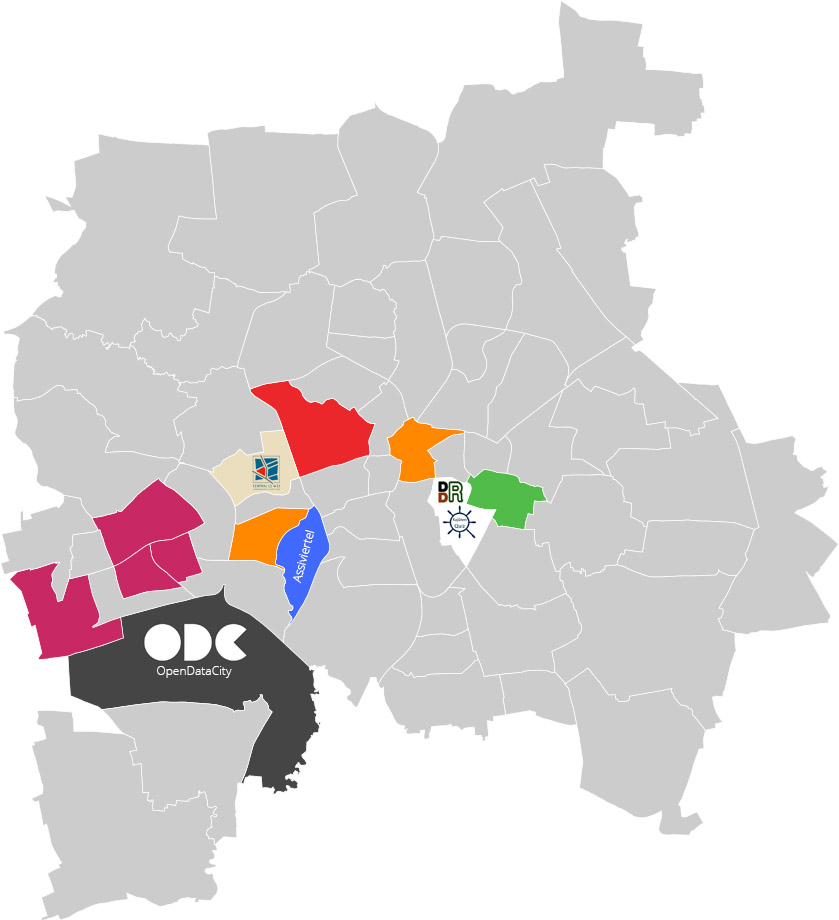
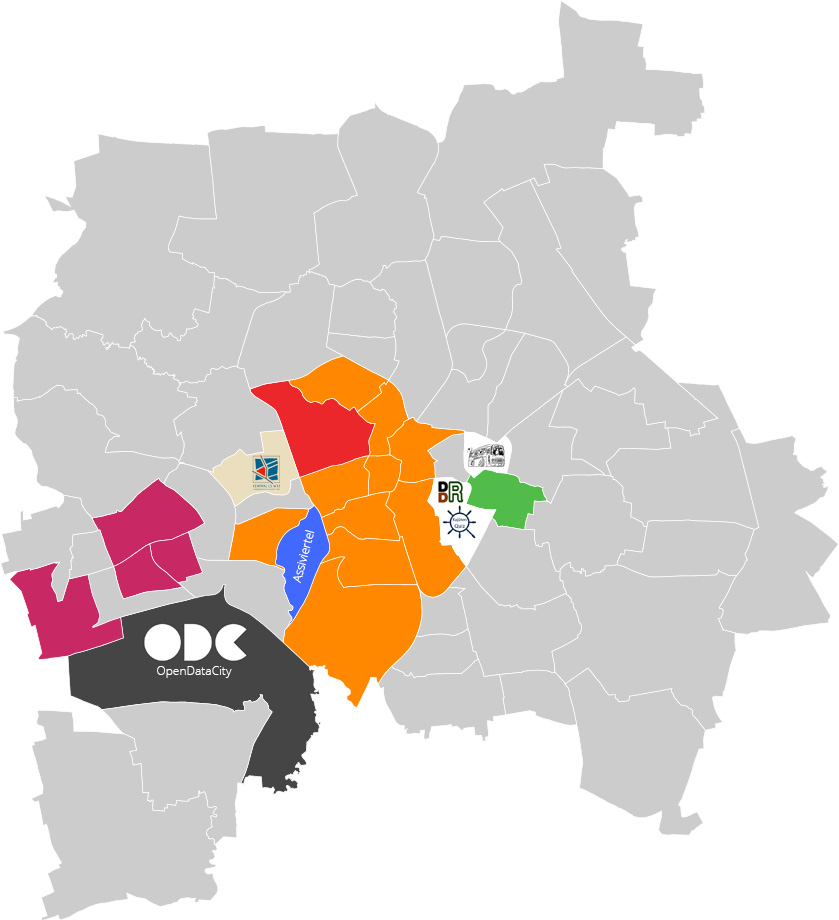
Neuer Unterstützer: Helden wider Willen e.V.

Changed region(s): [[0.3409, 0.3652, 0.5578, 0.7609], [0.5578, 0.4565, 0.6198, 0.5174]]

diff --git a/_pages/dank/index.html b/_pages/dank/index.html
@@ -85,6 +85,12 @@ title: Danksagung
 			<li>
 				Anger-Crottendorf: <a href="http://www.gruene-leipzig.de/stadtratswahl-2014/kandidatinnen/wahlkreis-2/" target="_blank">Stephan Stach (Grüne)</a>
 			</li>
+			<li>
+				Zentrum, Zentrum-Südost, Zentrum-Süd, Zentrum-West, Zentrum-Nord, Südvorstadt, Connewitz, Gohlis-Süd: <a href="http://piraten-leipzig.de/srle/lily/" target="_blank">Ute Elisabeth Gabelmann (PIRATEN)</a>
+			</li>
+			<li>
+				Volkmarksdorf: <a href="http://baumit.weebly.com" target="_blank">Helden wider Willen e.V.</a>
+			</li>
 		</ul>
 		
 		<img src="{% asset_path img/karte.jpg %}" class="img-responsive" style="width: 75%; margin: 0 auto; padding-top: 35px;">

diff --git a/_posts/2014-10-27-kritik-am-ausverkauf.md b/_posts/2014-10-27-kritik-am-ausverkauf.md
@@ -27,3 +27,45 @@ Am Ende hat uns Frau Jennicke noch einen Tipp gegeben, wie wir finanzielle Unter
 *„Sind Sie als Verein organisiert, können Sie Fördermittel beantragen. Sich um Spenden zu bemühen, ist eine weitere Möglichkeit. Meine Fraktion würde Ihre Arbeit gern mit einer Spende aus den Aufwandsentschädigungen der Stadträte unterstützen. Und: Fragen Sie doch mal bei den großen Investoren! Wenn sie reflektieren, woher ihr Reichtum stammt, wären sie möglicherweise bereit, davon etwas zurückzugeben.”*
 
 Über eine Spende aus den Aufwandsentschädigungen würden wir uns sehr freuen. Aber wie gesagt, auch andere Dinge helfen uns schon weiter. Auch die kritische Diskussion um unser Projekt begrüßen wir. Außerdem fänden wir es toll, wenn noch andere Fraktionen (aus allen politischen Lagern) sich dazu entschließen, unser Projekt zu unterstützen. Wir haben bewusst vorrangig die Stadtpolitiker angesprochen – und keine Investoren – da sie die Repräsentanten der Bürger sind und politisch am meisten bewirken können, was Open Data angeht. **Einundleipzig soll eine Art städtisches „Gemeingut” werden, beruhend auf offenen Daten.**
+
+<img src="/assets/pages/dank/img/karte.jpg" style="width: 75%; display: block; margin: 0 auto;" />
+
+<ul class="bullets" style="font-size: 11pt">
+
+<li>
+Großzschocher: <a href="http://www.opendatacity.de" target="_blank">OpenDataCity</a>
+</li>
+<li>
+Zentrum-Nordwest: <a href="http://www.joergweise.de/" target="_blank">Jörg Weise (SPD)</a>
+</li>
+<li>
+Lausen-Grünau: <a href="http://www.ilse-lauter.de/" target="_blank">Ilse Lauter (DIE LINKE)</a>
+</li>
+<li>
+Reudnitz-Thonberg: <a href="http://www.dunkeldreckig.de/" target="_blank">Dunkel. Dreckig. Reudnitz.</a> und <a href="https://www.facebook.com/kajuetenquiz" target="_blank">Kajüten-Quiz</a>
+</li>
+<li>
+Grünau-Mitte, Grünau-Ost und Schönau: <a href="http://www.soeren-pellmann.de/" target="_blank">Sören Pellmann (DIE LINKE)</a>
+</li>
+<li>
+Schleußig: <a href="https://www.facebook.com/Assiviertel" target="_blank">Assiviertel</a>
+</li>
+<li>
+Plagwitz: <a href="http://piraten-leipzig.de/author/hartmut/" target="_blank">Hartmut Thomas (PIRATEN)</a>
+</li>
+<li>
+Zentrum-Ost: <a href="http://piraten-leipzig.de/author/wwilleke/" target="_blank">Werner Willeke (PIRATEN)</a>
+</li>
+<li>
+Altlindenau: <a href="http://www.central-ls-w33.de/" target="_blank">Wohnungsgesellschaft mbH Central LS W33</a>
+</li>
+<li>
+Anger-Crottendorf: <a href="http://www.gruene-leipzig.de/stadtratswahl-2014/kandidatinnen/wahlkreis-2/" target="_blank">Stephan Stach (Grüne)</a>
+</li>
+<li>
+Zentrum, Zentrum-Südost, Zentrum-Süd, Zentrum-West, Zentrum-Nord, Südvorstadt, Connewitz, Gohlis-Süd: <a href="http://piraten-leipzig.de/srle/lily/" target="_blank">Ute Elisabeth Gabelmann (PIRATEN)</a>
+</li>
+<li>
+Volkmarksdorf: <a href="http://baumit.weebly.com" target="_blank">Helden wider Willen e.V.</a>
+</li>
+</ul>

diff --git a/_posts/2014-10-19-ortsteil-freikaufen.md b/_posts/2014-10-19-ortsteil-freikaufen.md
@@ -24,4 +24,44 @@ An die Stadtpolitiker: Senden Sie uns eine Mail und teilen Sie uns mit, welchen 
 
 ### Derzeitiger Stand:
 
-<img src="{% asset_path karte.jpg %}" style="width: 75; display: block; margin: 0 auto;" />
+<img src="/assets/pages/dank/img/karte.jpg" style="width: 75%; display: block; margin: 0 auto;" />
+
+<ul class="bullets" style="font-size: 11pt">
+
+<li>
+Großzschocher: <a href="http://www.opendatacity.de" target="_blank">OpenDataCity</a>
+</li>
+<li>
+Zentrum-Nordwest: <a href="http://www.joergweise.de/" target="_blank">Jörg Weise (SPD)</a>
+</li>
+<li>
+Lausen-Grünau: <a href="http://www.ilse-lauter.de/" target="_blank">Ilse Lauter (DIE LINKE)</a>
+</li>
+<li>
+Reudnitz-Thonberg: <a href="http://www.dunkeldreckig.de/" target="_blank">Dunkel. Dreckig. Reudnitz.</a> und <a href="https://www.facebook.com/kajuetenquiz" target="_blank">Kajüten-Quiz</a>
+</li>
+<li>
+Grünau-Mitte, Grünau-Ost und Schönau: <a href="http://www.soeren-pellmann.de/" target="_blank">Sören Pellmann (DIE LINKE)</a>
+</li>
+<li>
+Schleußig: <a href="https://www.facebook.com/Assiviertel" target="_blank">Assiviertel</a>
+</li>
+<li>
+Plagwitz: <a href="http://piraten-leipzig.de/author/hartmut/" target="_blank">Hartmut Thomas (PIRATEN)</a>
+</li>
+<li>
+Zentrum-Ost: <a href="http://piraten-leipzig.de/author/wwilleke/" target="_blank">Werner Willeke (PIRATEN)</a>
+</li>
+<li>
+Altlindenau: <a href="http://www.central-ls-w33.de/" target="_blank">Wohnungsgesellschaft mbH Central LS W33</a>
+</li>
+<li>
+Anger-Crottendorf: <a href="http://www.gruene-leipzig.de/stadtratswahl-2014/kandidatinnen/wahlkreis-2/" target="_blank">Stephan Stach (Grüne)</a>
+</li>
+<li>
+Zentrum, Zentrum-Südost, Zentrum-Süd, Zentrum-West, Zentrum-Nord, Südvorstadt, Connewitz, Gohlis-Süd: <a href="http://piraten-leipzig.de/srle/lily/" target="_blank">Ute Elisabeth Gabelmann (PIRATEN)</a>
+</li>
+<li>
+Volkmarksdorf: <a href="http://baumit.weebly.com" target="_blank">Helden wider Willen e.V.</a>
+</li>
+</ul>
